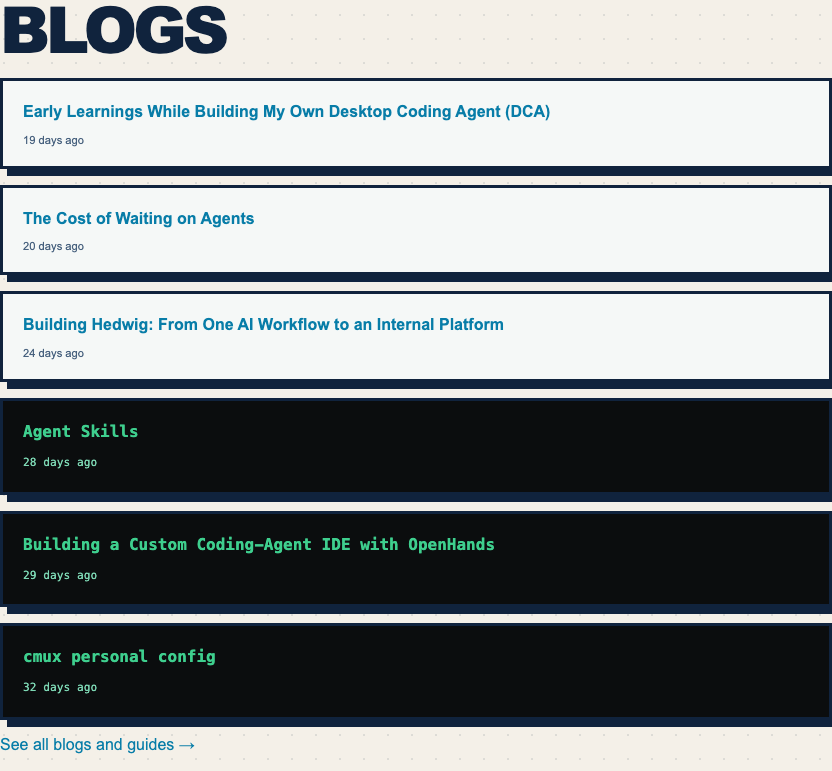
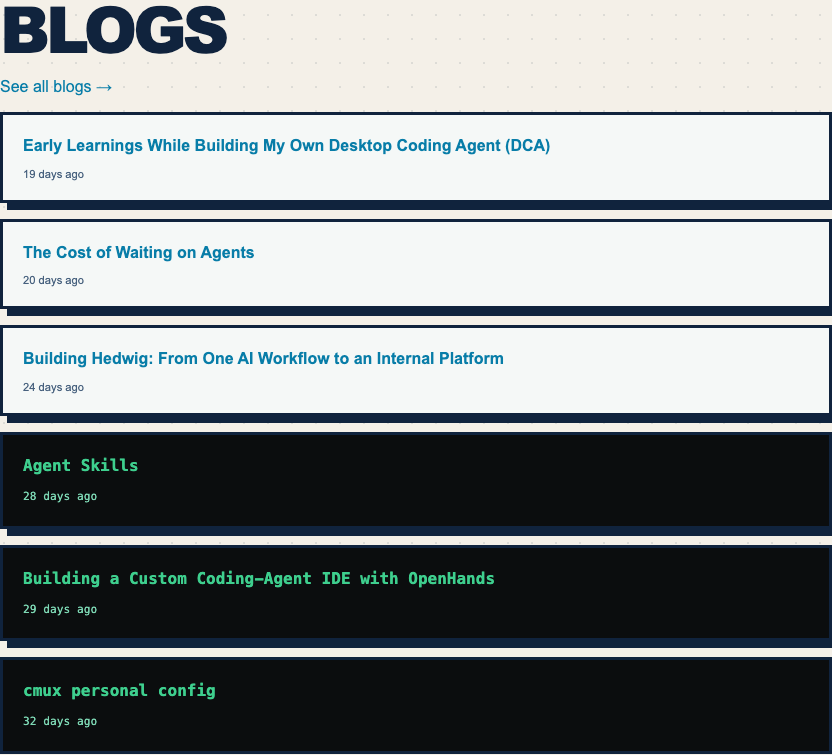
Move See all blogs link above homepage blog cards

diff --git a/src/routes/HomeRoute.tsx b/src/routes/HomeRoute.tsx
@@ -37,13 +37,13 @@ export default function HomeRoute(): ReactElement {
           <div className={styles.recentHeading}>
             <h2 id="recent-blogs-title">Blogs</h2>
           </div>
+          <p><Link to="/blog">See all blogs →</Link></p>
           <div className={styles.recentGrid}>
             {posts.map(post => (
               <BlogFeedCard key={post.href} post={post} headingLevel={3} titleOnly
                 footer={<p className={styles.recentDate}><RelativeDate date={post.date} /></p>} />
             ))}
           </div>
-          <p><Link to="/blog">See all blogs and guides →</Link></p>
         </section>
         <section className={styles.recentWriting} aria-labelledby="recent-apps-title">
           <div className={styles.recentHeading}>
